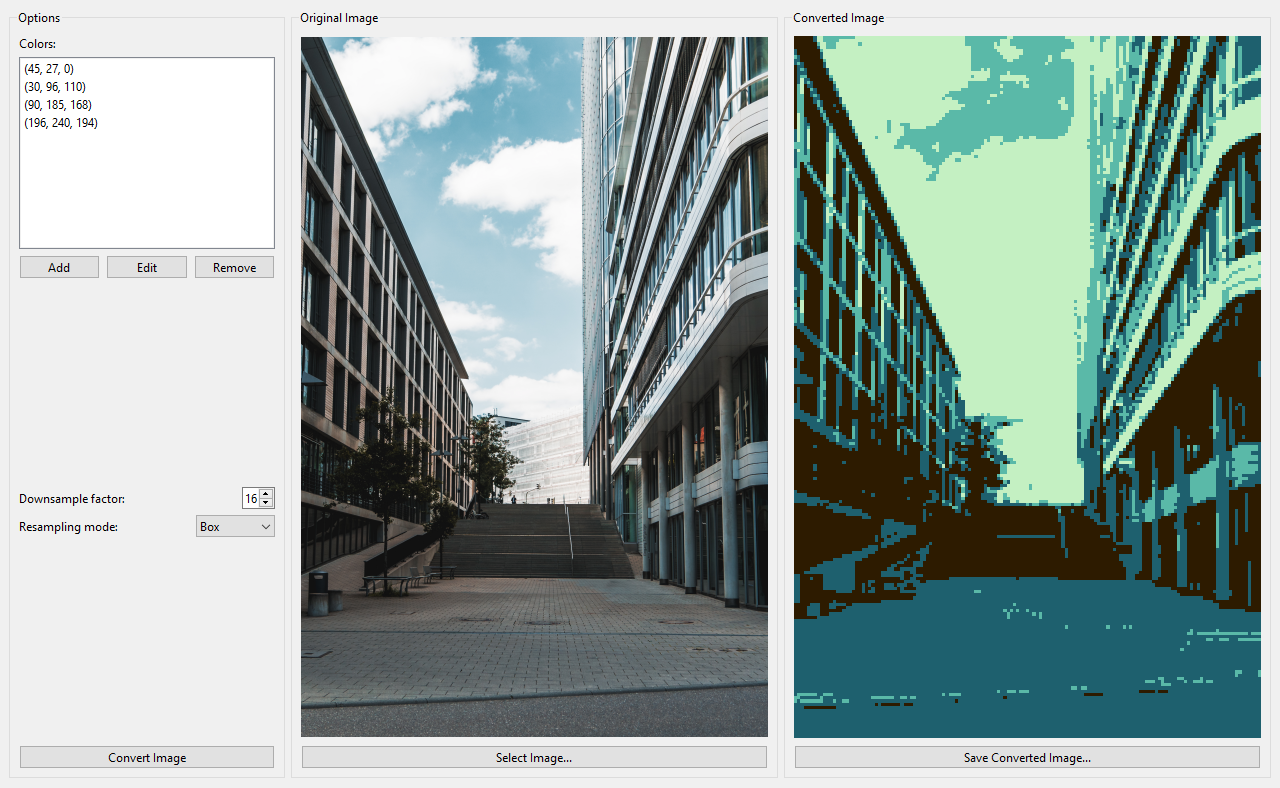
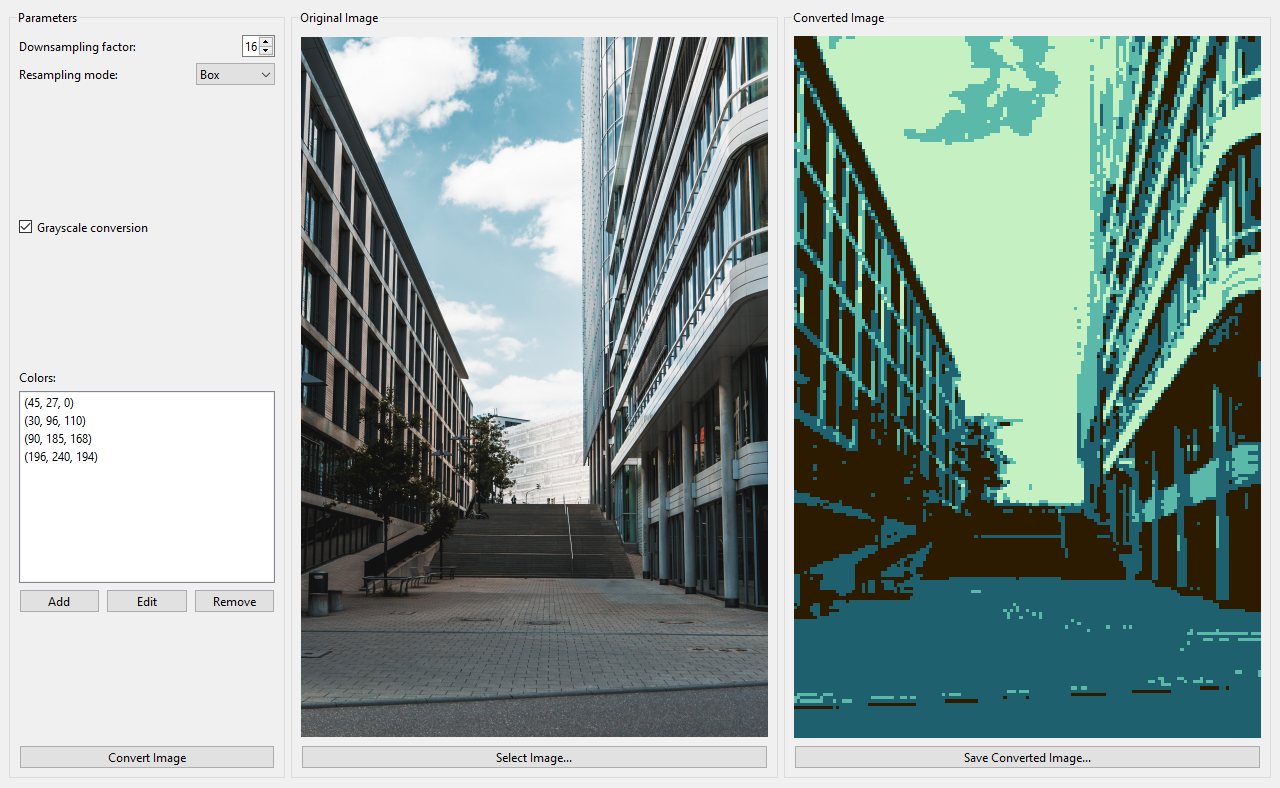
Update README.md and example image

diff --git a/README.md b/README.md
@@ -9,10 +9,10 @@ Example
 -------
 ![Conversion Example](docs/example.png)
 
-Example of an image conversion using a four-color palette
-by [Kerrie Lake](https://lospec.com/palette-list/mist-gb), a downsample factor of 16,
-and
-[**Pillow**'s "box" resampling mode](https://pillow.readthedocs.io/en/stable/handbook/concepts.html#PIL.Image.Resampling.BOX).
+Example of an image conversion using a downsampling factor of 16 with 
+[**Pillow**'s "box" resampling mode](https://pillow.readthedocs.io/en/stable/handbook/concepts.html#PIL.Image.Resampling.BOX), 
+grayscale conversion, and a four-color palette by
+[Kerrie Lake](https://lospec.com/palette-list/mist-gb). (Photo by me)
 
 Installation
 ------------
